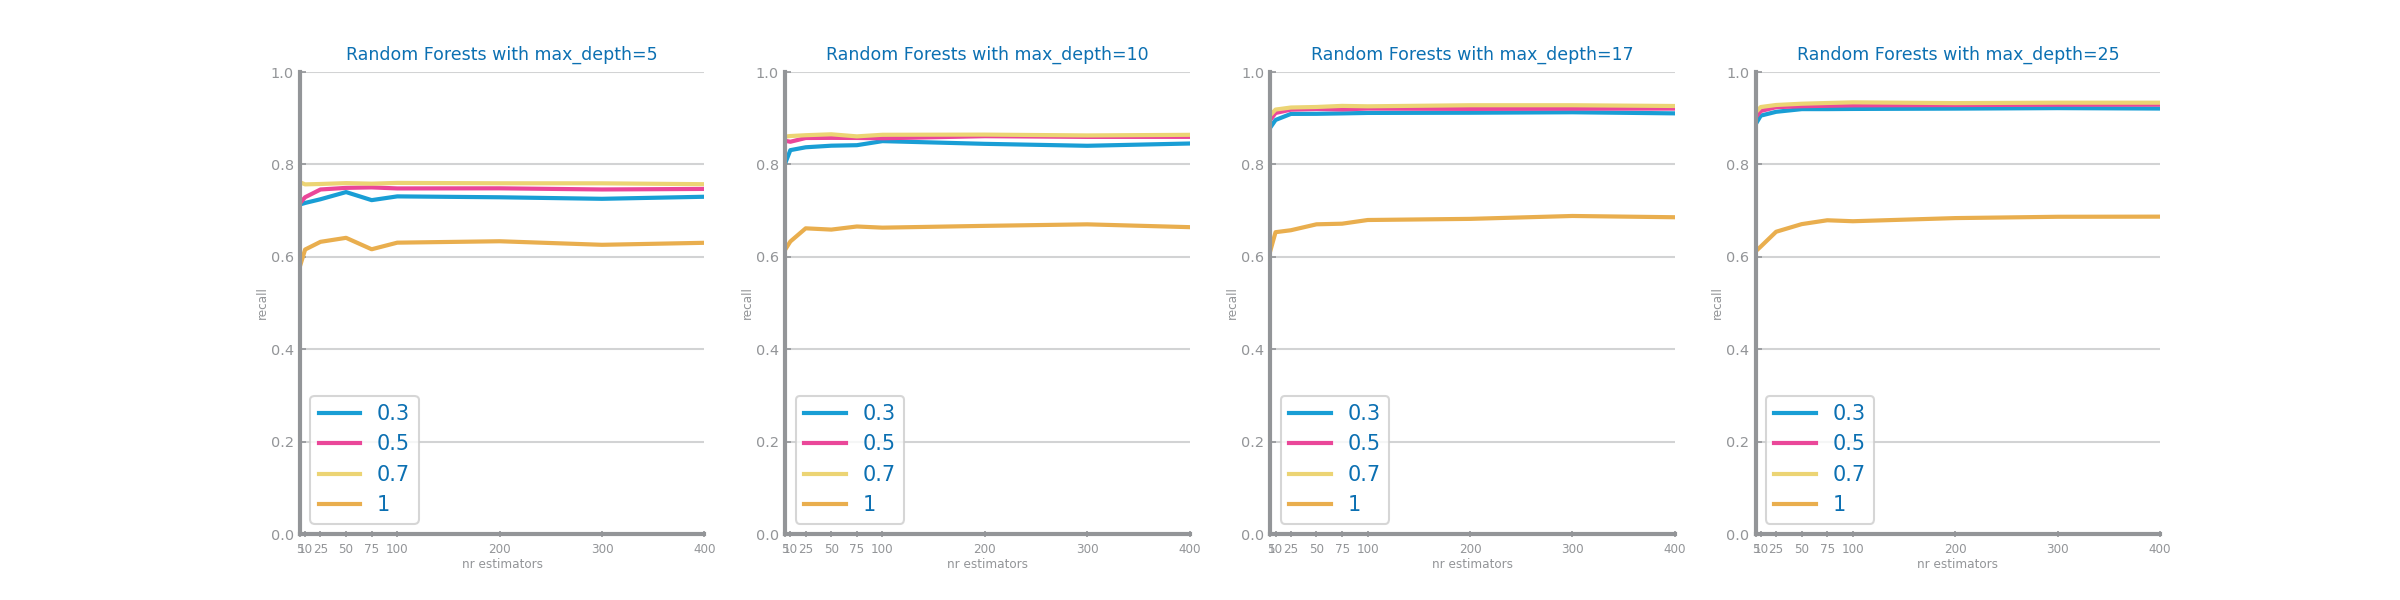
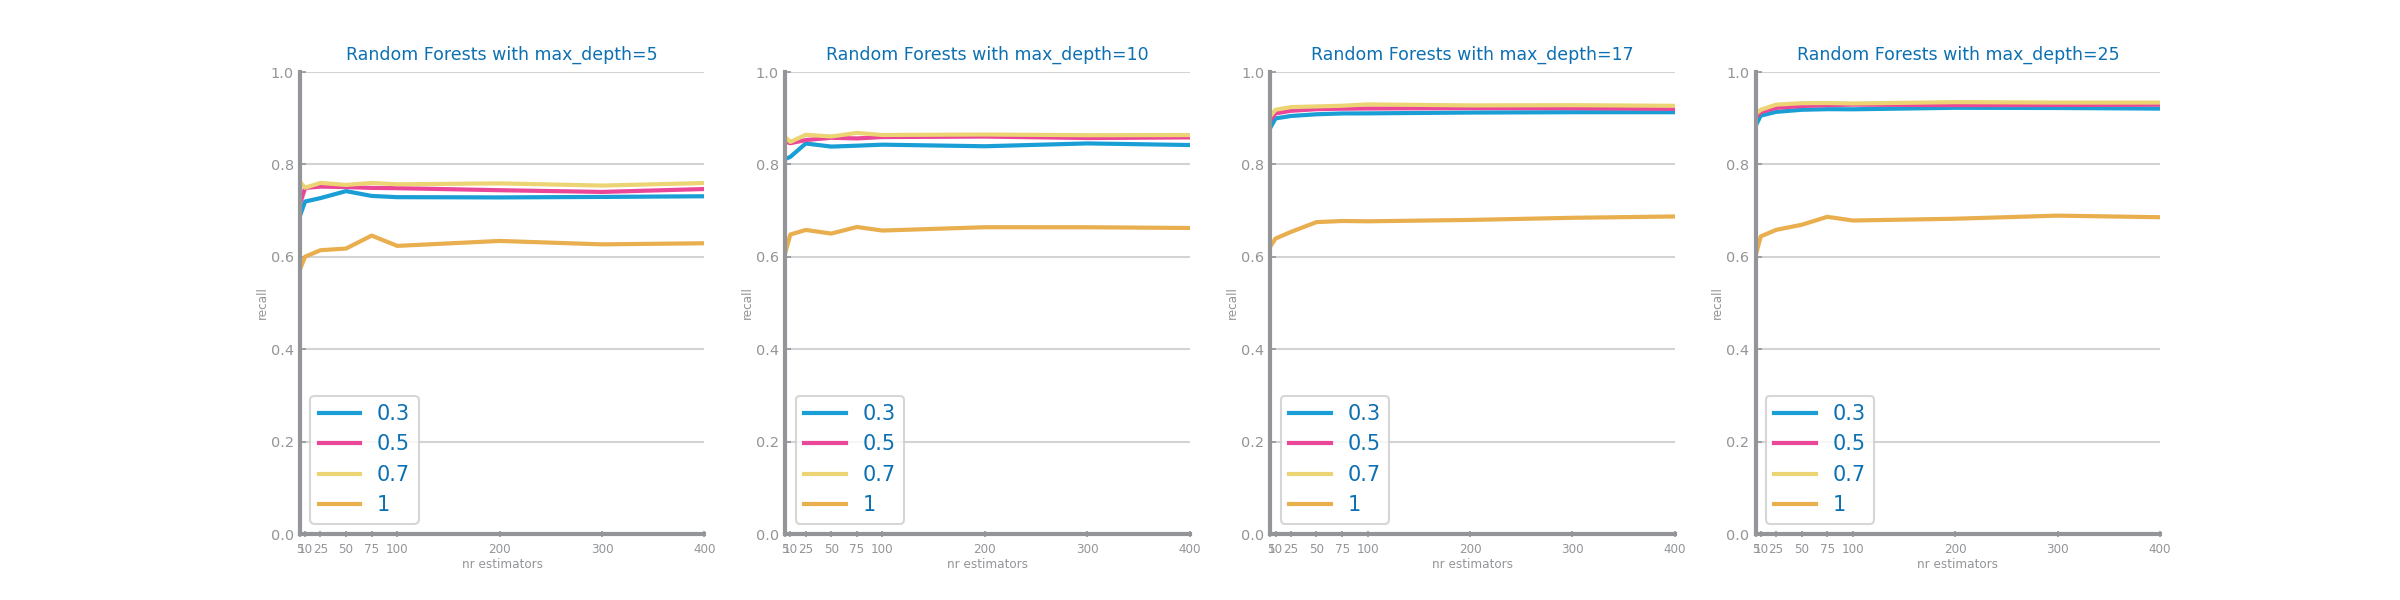
Random Forests feito

diff --git a/RF_diabetic.py b/RF_diabetic.py
@@ -5,9 +5,9 @@ from sklearn.ensemble import RandomForestClassifier
 from ds_charts import plot_confusion_matrix, multiple_line_chart, horizontal_bar_chart, multiple_bar_chart, confusion_matrix, HEIGHT
 from sklearn.metrics import accuracy_score, precision_score, recall_score, f1_score
 
-file_tag = 'drought_recall'
-filename = 'data/Balancing/drought_undersample'
-target = 'class'
+file_tag = 'diabetic_recall'
+filename = 'data/Balancing/diabetic_undersample'
+target = 'readmitted'
 
 train: DataFrame = read_csv(f'{filename}_train.csv')
 trnY: ndarray = train.pop(target).values
@@ -48,7 +48,7 @@ for k in range(len(max_depths)):
         values[f] = yvalues
     multiple_line_chart(n_estimators, values, ax=axs[0, k], title=f'Random Forests with max_depth={d}',
                            xlabel='nr estimators', ylabel='recall', percentage=True)
-savefig(f'images/RandomForest/drought/{file_tag}_rf_study.png')
+savefig(f'images/RandomForest/diabetic/{file_tag}_rf_study.png')
 print('Best depth=%d features %1.2f estimators %d, with recall=%1.2f'%(best[0], best[1], best[2], last_best))
 
 
@@ -83,7 +83,7 @@ def plot_evaluation_results(labels: ndarray, trn_y, prd_trn, tst_y, prd_tst, pos
 prd_trn = best_model.predict(trnX)
 prd_tst = best_model.predict(tstX)
 plot_evaluation_results(labels, trnY, prd_trn, tstY, prd_tst, average_param="macro")
-savefig(f'images/RandomForest/drought/{file_tag}_rf_best.png')
+savefig(f'images/RandomForest/diabetic/{file_tag}_rf_best.png')
 
 
 ############################################################################
@@ -109,7 +109,7 @@ for f in range(len(variables)):
     #print(f'{f+1}. feature {elems[f]} ({importances[indices[f]]})')
 figure()
 horizontal_bar_chart(elems, mask_importances, mask_stdevs , title='Random Forest Features importance', xlabel='importance', ylabel='variables')
-savefig(f'images/RandomForest/drought/{file_tag}_rf_ranking.png')
+savefig(f'images/RandomForest/diabetic/{file_tag}_rf_ranking.png')
 
 
 ##############################################################################
@@ -133,5 +133,5 @@ def plot_overfitting_study(xvalues, prd_trn, prd_tst, name, xlabel, ylabel):
     evals = {'Train': prd_trn, 'Test': prd_tst}
     figure()
     multiple_line_chart(xvalues, evals, ax = None, title=f'Overfitting {name}', xlabel=xlabel, ylabel=ylabel, percentage=True)
-    savefig(f'images/RandomForest/drought/overfitting_{name}.png')
+    savefig(f'images/RandomForest/diabetic/overfitting_{name}.png')
 plot_overfitting_study(n_estimators, y_trn_values, y_tst_values, name=f'RF_depth={max_depth}_vars={f}', xlabel='nr_estimators', ylabel=str(eval_metric))
